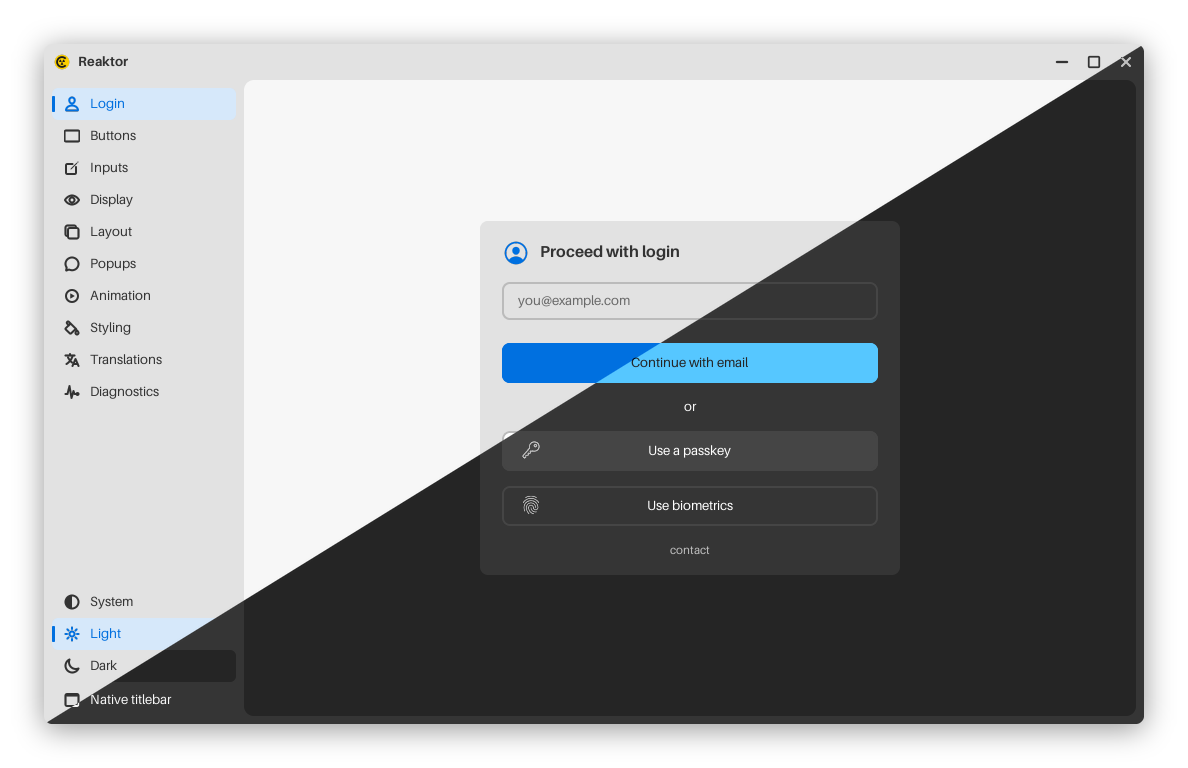
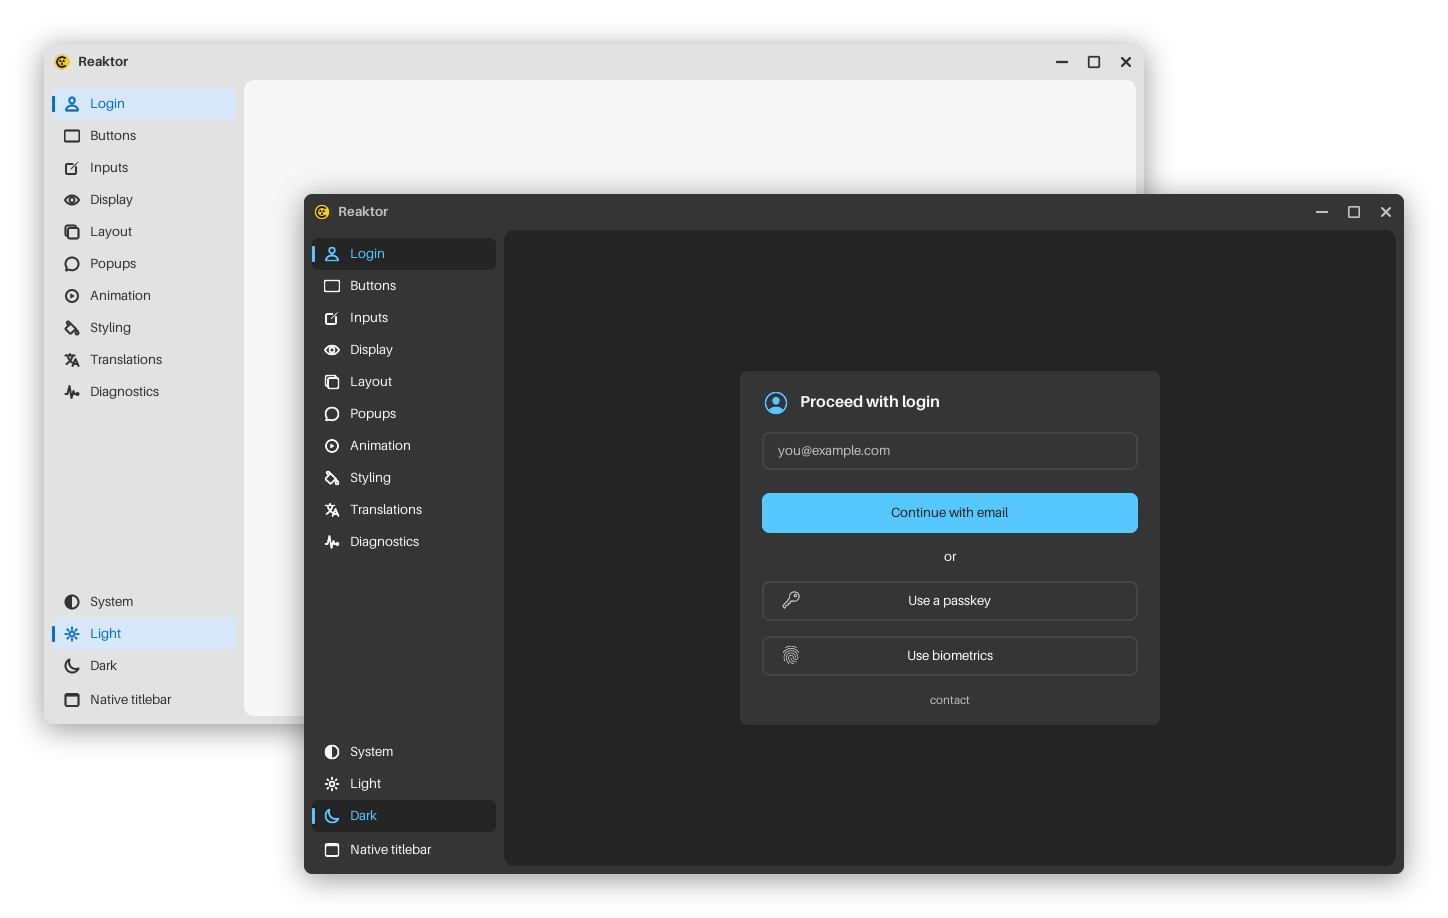
Two whole windows, not one cut in two
The README's screenshot showed one window cut along its diagonal, light above and dark below, which sliced the login buttons and the sidebar's theme entries, with Light chosen on one side and Dark on the other. It now shows two whole windows: the light one behind, the dark one in front, each with its own scheme chosen.

diff --git a/README.md b/README.md
@@ -3,7 +3,7 @@
 A Nuklear-powered GUI library for C.
 
 <p align="center">
-  <img src="assets/screenshots/screenshot.png" alt="The Reaktor showcase split along the diagonal: the light scheme above the line and the dark scheme below it, with the sidebar of pages on the left and the Login page's card in a rounded panel">
+  <img src="assets/screenshots/screenshot.png" alt="Two Reaktor showcase windows, the light scheme behind and the dark scheme in front: each has the sidebar of pages with its own scheme chosen at the foot, and the front one shows the Login page's card in a rounded panel">
 </p>
 
 **[Try the showcase in your browser](https://alpaq92.github.io/Reaktor/)** — the
